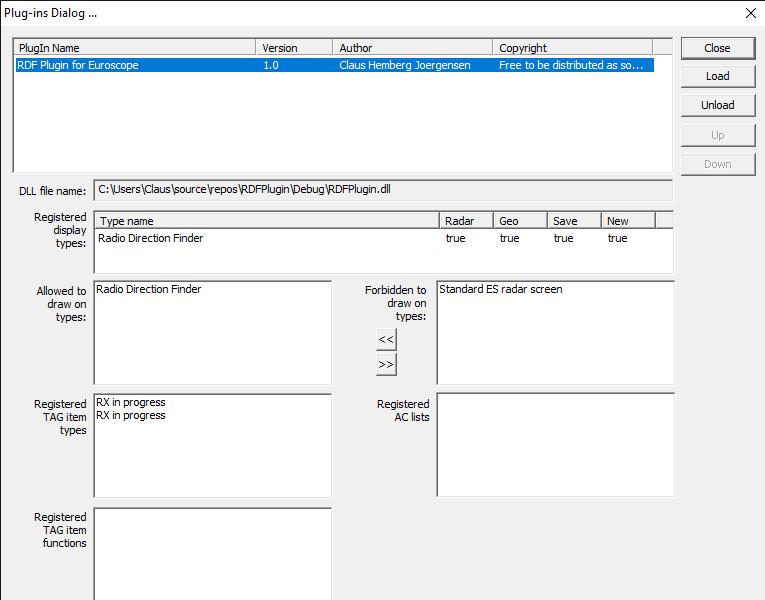
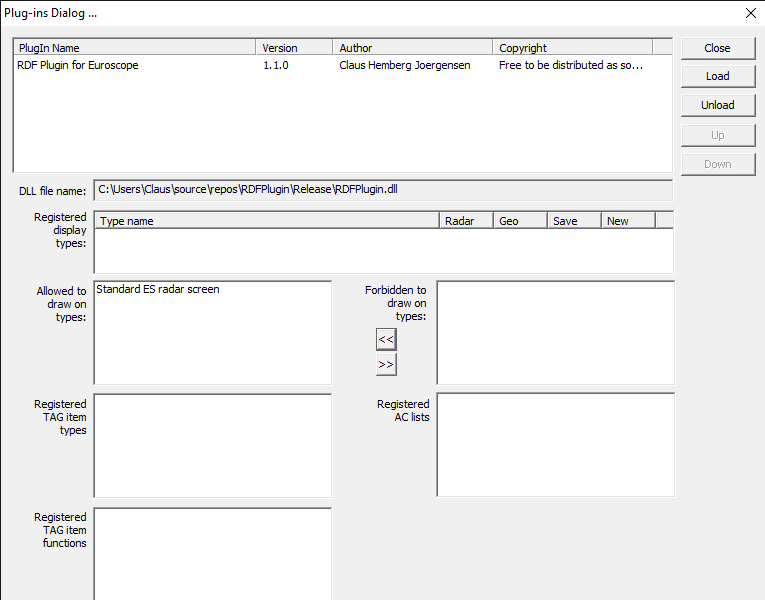
Tag removed, now drawing on all screen types, color configuration implemented

diff --git a/RDFPlugin/CRDFPlugin.cpp b/RDFPlugin/CRDFPlugin.cpp
@@ -8,7 +8,6 @@
 using namespace std;
 
 const   int     TAG_ITEM_VOICERECEIVE = 1;
-const string RDF_DISPLAY = "Radio Direction Finder";
 
 CRDFPlugin::CRDFPlugin()
 	: EuroScopePlugIn::CPlugIn(EuroScopePlugIn::COMPATIBILITY_CODE,
@@ -17,9 +16,7 @@ CRDFPlugin::CRDFPlugin()
 		MY_PLUGIN_DEVELOPER.c_str(),
 		MY_PLUGIN_COPYRIGHT.c_str())
 {
-	RegisterTagItemType("RX in progress", TAG_ITEM_VOICERECEIVE);
 	DisplayUserMessage("Message", "RDF", std::string("Version " + MY_PLUGIN_VERSION + " loaded").c_str(), false, false, false, false, false);
-	RegisterDisplayType(RDF_DISPLAY.c_str(), true, true, true, true);
 }
 
 
@@ -33,14 +30,48 @@ CRadarScreen * CRDFPlugin::OnRadarScreenCreated(const char * sDisplayName,
 	bool CanBeSaved,
 	bool CanBeCreated)
 {
-	bool isRDF = (RDF_DISPLAY == sDisplayName);
+	DisplayUserMessage("Message", "RDF Plugin", (std::string("Radio Direction Finder plugin activated on ") + sDisplayName).c_str(), false, false, false, false, false);
+	
+	COLORREF rdfRGB = RGB(255, 255, 255);	// Default: white
 
-	if (isRDF) 
+	try
 	{
-		DisplayUserMessage("Message", "RDF Plugin", "Radar Direction Finder display opened", false, false, false, false, false);
+		const char* cstrRGB = GetDataFromSettings("RGB");
+		if (cstrRGB != NULL)
+		{
+			string circleRGB = cstrRGB;
+
+			size_t firstColonIndex = circleRGB.find(':');
+			if (firstColonIndex != string::npos)
+			{
+				size_t secondColonIndex = circleRGB.find(':', firstColonIndex + 1);
+				if (secondColonIndex != string::npos)
+				{
+					string redString = circleRGB.substr(0, firstColonIndex);
+					string greenString = circleRGB.substr(firstColonIndex + 1, secondColonIndex - firstColonIndex - 1);
+					string blueString = circleRGB.substr(secondColonIndex + 1, circleRGB.size() - secondColonIndex - 1);
+#ifdef _DEBUG
+					DisplayUserMessage("Message", "RDF Plugin", (std::string("R: ") + redString + std::string(" G: ") + greenString + std::string(" B: ") + blueString).c_str(), false, false, false, false, false);
+#endif
+
+					if (!redString.empty() && !greenString.empty() && !blueString.empty())
+					{
+						rdfRGB = RGB(std::stoi(redString), std::stoi(greenString), std::stoi(blueString));
+					}
+				}
+			}
+		}
+	}
+	catch (std::runtime_error const& e)
+	{
+		DisplayUserMessage("Message", "RDF Plugin", (string("Error: ") + e.what()).c_str(), false, false, false, false, false);
+	}
+	catch (...)
+	{
+		DisplayUserMessage("Message", "RDF Plugin", ("Unexpected error: " + std::to_string(GetLastError())).c_str(), false, false, false, false, false);
 	}
 
-	return RDF_DISPLAY == sDisplayName ? new CRDFScreen(this) : NULL;
+	return new CRDFScreen(this, rdfRGB);
 }
 
 void CRDFPlugin::OnVoiceReceiveStarted(CGrountToAirChannel Channel)
@@ -51,7 +82,6 @@ void CRDFPlugin::OnVoiceReceiveStarted(CGrountToAirChannel Channel)
 	{
 		string callsign = GetActivePilotCallsign(Channel.GetVoiceServer(), Channel.GetVoiceChannel());
 		activeTransmittingPilot = callsign;
-		DisplayUserMessage("Message", "RDF Plugin", (std::string("OnVoiceReceiveStarted, GetActivePilotCallsign=") + callsign).c_str(), false, false, false, false, false);
 	}
 	catch (std::runtime_error const& e)
 	{
@@ -65,15 +95,24 @@ void CRDFPlugin::OnVoiceReceiveStarted(CGrountToAirChannel Channel)
 
 void    CRDFPlugin::OnVoiceTransmitStarted(bool OnPrimary)
 {
-	// DEBUG ONLY: activeTransmittingPilot = "TAP1979";
-
+#ifdef _DEBUG
+	const char* TestRDFCallsign = GetDataFromSettings("TestRDFCallsign");
+	if (TestRDFCallsign != NULL) {
+		activeTransmittingPilot = TestRDFCallsign;
+	}
+	else
+	{
+		SaveDataToSettings("TestRDFCallsign", "In debug mode: which aircraft to highlight during voice transmit", "Test123");
+	}
+#endif
 }
 
 void CRDFPlugin::OnVoiceTransmitEnded(bool OnPrimary)
 {
-	/* DEBUG ONLY: 
+#ifdef _DEBUG
 	previousActiveTransmittingPilot = activeTransmittingPilot;
-	activeTransmittingPilot.clear(); */
+	activeTransmittingPilot.clear(); 
+#endif
 }
 
 string CRDFPlugin::GetActivePilotCallsign(string voiceServer, string voiceChannel)
@@ -121,46 +160,9 @@ string CRDFPlugin::GetActivePilotCallsign(string voiceServer, string voiceChanne
 
 void CRDFPlugin::OnVoiceReceiveEnded(CGrountToAirChannel Channel)
 {
+#ifdef _DEBUG
 	DisplayUserMessage("Message", "RDF Plugin", (std::string("OnVoiceReceiveEnded ") + Channel.GetName()).c_str(), false, false, false, false, false);
+#endif
 	previousActiveTransmittingPilot = activeTransmittingPilot;
 	activeTransmittingPilot.clear();
-}
-
-void CRDFPlugin::OnGetTagItem(EuroScopePlugIn::CFlightPlan FlightPlan, 
-	EuroScopePlugIn::CRadarTarget RadarTarget,
-	int ItemCode,
-	int TagData,
-	char sItemString[16],
-	int * pColorCode,
-	COLORREF * pRGB,
-	double * pFontSize)
-{
-
-	// only for flight plans
-	if (!FlightPlan.IsValid())
-		return;
-
-	// stitch by the code
-	switch (ItemCode)
-	{
-	case TAG_ITEM_VOICERECEIVE:
-		if (activeTransmittingPilot == RadarTarget.GetCallsign()	// Draw circle if target is currently active
-			|| (activeTransmittingPilot.empty()						// ..or if noone is active, but the middle button is pressed and the recent active pilot as our target
-				&& previousActiveTransmittingPilot == RadarTarget.GetCallsign()
-				&& (GetKeyState(VK_MBUTTON) == -127 || GetKeyState(VK_MBUTTON) == -128))
-			
-			) {
-
-			// Only update each half second to avoid flicker
-			if (std::chrono::duration_cast<std::chrono::milliseconds>(std::chrono::steady_clock::now() - lastOnGetTagItemTime).count() >= 500)
-			{
-				rxcount++;
-				lastOnGetTagItemTime = std::chrono::steady_clock::now();
-			}
-			strcpy_s(sItemString, 16, rxcount % 2 == 0 ? "***** RX *****" : "      RX      ");
-		}
-		
-
-		break;
-	}
 }

diff --git a/RDFPlugin/CRDFScreen.cpp b/RDFPlugin/CRDFScreen.cpp
@@ -2,9 +2,10 @@
 #include "CRDFScreen.h"
 
 
-CRDFScreen::CRDFScreen(CRDFPlugin *plugin)
+CRDFScreen::CRDFScreen(CRDFPlugin *plugin, COLORREF rdfColor)
 {
 	this->rdfPlugin = plugin;
+	this->rdfColor = rdfColor;
 }
 
 
@@ -38,7 +39,9 @@ void CRDFScreen::OnRefresh(HDC hDC, int Phase)
 				POINT p = ConvertCoordFromPositionToPixel(radarTarget.GetPosition().GetPosition());
 				
 				HGDIOBJ oldBrush = SelectObject(hDC, GetStockObject(HOLLOW_BRUSH));
-				// HGDIOBJ oldPen = SelectObject(hDC, GetStockObject(BLACK_PEN));
+				HPEN hPen = CreatePen(PS_SOLID, 1, rdfColor);
+				HGDIOBJ oldPen = SelectObject(hDC, hPen);
+
 				if (PlaneIsVisible(p, GetRadarArea()))
 				{
 					Ellipse(hDC, p.x - 50, p.y - 50, p.x + 50, p.y + 50);
@@ -53,7 +56,9 @@ void CRDFScreen::OnRefresh(HDC hDC, int Phase)
 				}
 
 				SelectObject(hDC, oldBrush);
-				// SelectObject(hDC, oldPen);
+				SelectObject(hDC, oldPen);
+
+				DeleteObject(hPen);
 			}
 		}
 	}

diff --git a/RDFPlugin/CRDFPlugin.h b/RDFPlugin/CRDFPlugin.h
@@ -8,7 +8,7 @@ using namespace std;
 using namespace EuroScopePlugIn;
 
 const string MY_PLUGIN_NAME = "RDF Plugin for Euroscope";
-const string MY_PLUGIN_VERSION = "1.0";
+const string MY_PLUGIN_VERSION = "1.1.0";
 const string MY_PLUGIN_DEVELOPER = "Claus Hemberg Joergensen";
 const string MY_PLUGIN_COPYRIGHT = "Free to be distributed as source code";
 
@@ -28,7 +28,6 @@ public:
 	virtual void OnVoiceReceiveStarted(CGrountToAirChannel Channel);
 	virtual void OnVoiceReceiveEnded(CGrountToAirChannel Channel);
 	virtual CRadarScreen *OnRadarScreenCreated(const char * sDisplayName, bool NeedRadarContent, bool GeoReferenced, bool CanBeSaved, bool CanBeCreated);
-	void OnGetTagItem(EuroScopePlugIn::CFlightPlan FlightPlan, EuroScopePlugIn::CRadarTarget RadarTarget, int ItemCode, int TagData, char sItemString[16], int * pColorCode, COLORREF * pRGB, double * pFontSize);
 
 	inline string GetActiveTransmittingPilot()
 	{

diff --git a/RDFPlugin/CRDFScreen.h b/RDFPlugin/CRDFScreen.h
@@ -9,10 +9,11 @@ class CRDFScreen : public CRadarScreen
 {
 private:
 	CRDFPlugin *rdfPlugin;
+	COLORREF rdfColor;
 
 	bool PlaneIsVisible(POINT p, RECT radarArea);
 public:
-	CRDFScreen(CRDFPlugin *plugin);
+	CRDFScreen(CRDFPlugin *plugin, COLORREF rdfColor);
 	virtual ~CRDFScreen();
 
 	virtual void    OnAsrContentToBeClosed(void);

diff --git a/README.md b/README.md
@@ -1,8 +1,9 @@
 # RDF
 ## Radio Direction Finder plugin for Euroscope
 
-Having problems finding the tag for the aircraft, when the pilot calls you on your frequency? At least I have had challenges with this, when covering large sectors on Vatsim, especially FSS positions. Inspired by this video (https://www.youtube.com/watch?v=KpLKP_CxaLo), showing how RDF works at Eurocontrol, I have developed this plugin, with 2 choices for letting Euroscope help you find the calling pilot.
-1. Using the Radio Direction Finder view, you will get the same functionality as shown in the video: highlighting the calling aircraft by drawing a circle around the tag. 
+Having problems finding the tag for the aircraft, when the pilot calls you on your frequency? At least I have had challenges with this, when covering large sectors on Vatsim, especially FSS positions. Inspired by this video (https://www.youtube.com/watch?v=KpLKP_CxaLo), showing how RDF works at Eurocontrol, I have developed this plugin, letting Euroscope help you find the calling pilot.
+
+Here is an example of, how you will get the same functionality as shown in the video: highlighting the calling aircraft by drawing a circle around the tag. 
 
    ![RDF circle around the "talking aircraft"](documentation/RDFCircle.png)
    
@@ -11,50 +12,53 @@ Having problems finding the tag for the aircraft, when the pilot calls you on yo
    
    ![RDF line drawn from the center in the direction of the "talking aircraft"](documentation/RDFLine.png)
    
-   Please note, that this only works, if you are using the Standard ES Radar View. In case you are using another plugin defining it's own views, you should probably have a look at choice no 2 below.
-
-
-1. In case you are already using another radar view than Euroscope's standard radar view, I have made a "poorman's solution", where a flashing text will be displayed in the tag of the aircraft of the calling pilot.
-
-![Example of flashing ****RX***** tag when pilot talks on your frequency](documentation/RDFtag.png)
 
 ## Installation of plugin
 
 1. For your own sake: make a backup copy of your Euroscope folder with your settings, profiles, asr-files etc. (typically under Documents\Euroscope)
 1. Download the plugin DLL from here: [RDFPlugin.DLL](https://raw.githubusercontent.com/chembergj/RDF/master/Release/RDFPlugin.dll), and move it to your Documents\Euroscope\Plugins folder
 1. Start Euroscope. Click on the menu button "Other SET", and select the "Plug-ins..." menu item. ![ES Plugin menu](documentation/ESPluginMenu.png)
-1. The plugin dialog should now be open. Click "Load", select the just downloaded "RDFPlugin.dll", and if you click on the "RDF Plugin for Euroscope" line in the list, it should something like this (besides the DLL filename directory, of course):
+1. The plugin dialog should now be open. Click "Load", and select the just downloaded "RDFPlugin.dll"
+1. Click on the "RDF Plugin for Euroscope" line in the list, and move "Standard ES radar screen" from the "Forbidden to draw on types" list to the "Allowed to draw on types" list, by clicking the "<<"  button. It should something like this (besides the DLL filename directory, of course):
 ![Plugin dialog with RDF Plugin loaded](documentation/ESPluginDialog.png)
-1. Click "Close". That's (almost) it. 
+1. Click "Close". That's it. 
 
-## How to use - on Euroscope standard radar view.
-If your current ES setup is using the Euroscope standard radar view, you can use the graphical RDF, where a ring is drawn around the plane controlled by the pilot currently speaking on the frequency.
-1. Using a texteditor (notepad, notepad++ or whatever), open the .asr file that you are using in your ES setup. On the very first line, this text MUST be found:
-   > DisplayTypeName:Standard ES radar screen
-   
-   If this is NOT the case, you should not continue, since this will probably break your configuration with an already installed plugin, that you are using. Instead jump to the section "How to use - on non-standard views"
-1. Change this to: 
-   > DisplayTypeName:Radio Direction Finder
-
-1. Save the file, start Euroscope, and open the edited .asr-file and open it in Euroscope. Your radar screen should look no different than usual.
-1. Connect to Vatsim, and enjoy that either:
-   1. If the "talking aircraft" is inside your radar view, a circle is drawn around the tag. 
-   1. If the aircraft is outside your radar view, a line is drawn from the screen centre in the direction of the aircraft. Scroll in the direction and you will find the aircraft.
-   1. In case you forgot, which aircraft just called, just press the middle button of your mouse, and the circle will be drawn again.
+If you want the plugin to draw on other display types than just the "Standard ES radar screen", feel free to move them from the "Forbidden..." list to the "Allowed..." list.
 
 No more *"Please say callsign again.."* :smile:
 
+## How to use
+1. If the "talking aircraft" is inside your radar view, a circle is drawn around the tag. 
+1. If the aircraft is outside your radar view, a line is drawn from the screen centre in the direction of the aircraft. Scroll in the direction and you will find the aircraft.
+1. In case you forgot, which aircraft just called, just press the middle button of your mouse, and the circle will be drawn again.
 
-## How to use - on non-standard views
-In case you are using another kind of radar view than the standard one, you probably also have another plugin loaded, and it's functionality would be removed, if you changed the DisplayTypeName in your .asr file, so please don't do that. As an alternative, not a great one, but at least an alternative, I have made a flashing tag, indicating the active pilot. How to install (the choice of which tag's to edit might depend on your current tag configuration as well as your choice of correlation-mode, the suggestions below will work well with correlation-mode Easy).
+## Color configuration
+As default, the circle and line is drawn in white. In case you want to customize this, open your plugin configuration file in a text editor. The name and location of the file can be found by clicking  "Other Set", in the menu click "Settings files setup".
 
-1. Open the TAG editor (in the menu of the "Other SET" menubutton)
-1. In "TAG Type" , select "Correlated A+C mode", and for "Tagging level" select "untagged".
-1. Click the "Add item" button. 
-1. In the "Tag item type" drop down, replace the selection of "Next line" with "RDF plugin for Euroscope/RX in progress": ![TAG editor](documentation/ESTagDialog.png)
-1. In the "Tagging level" drop down switch to "tagged"
-1. Once again, click "Add item", and replace the "Next line" selection with "RDF plugin for Euroscope/RX in progress".
-1. Finally, click "Ok" and you are ready to connect to vatsim.
+Inside this file, you will probably see something like this:
+
+> PLUGINS
+> \<eventually existing configuration lines>
+> END
+
+Insert a new line before the END line, and paste this into the new line:
+> RDF Plugin for Euroscope:RGB:0:255:0
+
+...that is, so the file now looks like this:
+
+> PLUGINS
+> \<eventually existing configuration lines>
+> RDF Plugin for Euroscope:RGB:0:255:0
+> END
+
+After restarting Euroscope, the circle and line drawn by the RDF plugin will now be green due to the R=0, G=255, B=0 values. You can of course set it to anything you want, as long as each value is between 0 and 255, both inclusive. In case the plugin fails to parse the line for whatever the reason must be, it will fall back to use the default white color.
+
+## For users of old version 1.0.1:
+There is no longer any custom display type available called "Radio Direction Finder". In case you have modified your .asr file(s) and set the DisplayTypeName:Radio Direction Finder as described in the old documentation, you should change it back to whatever it was before (probably DisplayTypeName:Standard ES radar screen)
+
+Since the plugin now can draw on all display types, I have removed the rather clumsy, flashing tag *** RX *** thingy since it is now needless. You should therefore remove it from your TAG setup, in case you have modified it to use v1.0.1.
+
+Sorry for the inconvenience to users of the old version, but I found the new way of using the plugin much better, as well as easier to install.
 
 ## Questions?
 You can reach me on claus_hemberg.jorgensen (at) vatsim-scandinavia.org
